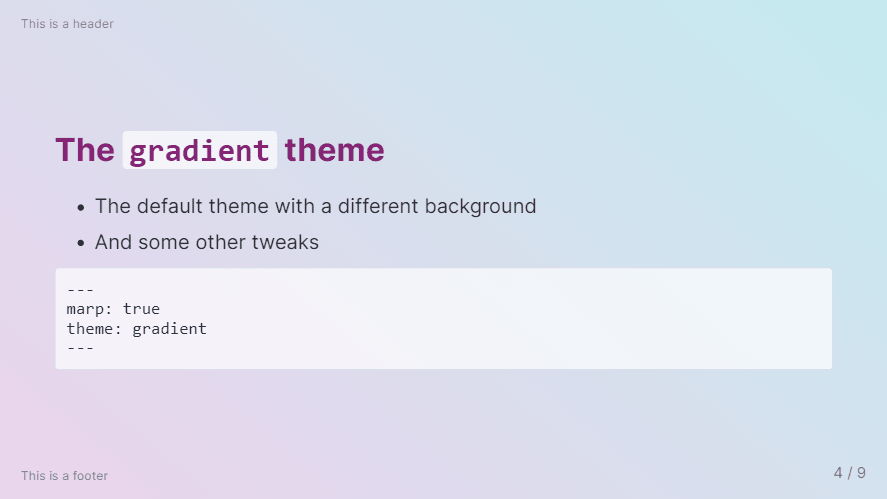
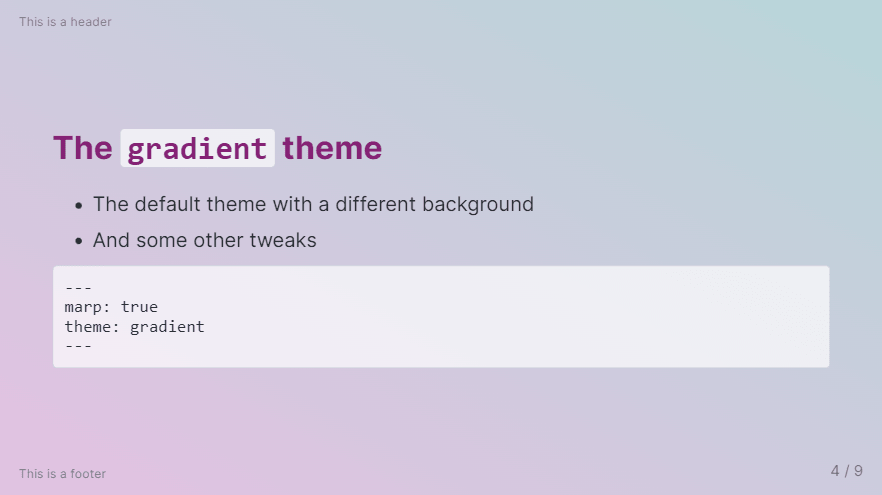
Increase vibrance

diff --git a/gradient.css b/gradient.css
@@ -11,7 +11,7 @@
 
 section {
   background-color: #ffffff;
-  background-image: linear-gradient(40deg, #e2bee2ad 0%, #a7e1e7ad 100%);
+  background-image: linear-gradient(to top right, #e1c2e1 5%, #b9d5d9 95%);
 }
 
 h1,
@@ -55,7 +55,7 @@ img[alt~="center"] {
 /* || SECTION CLASS: blue */
 section.blue {
   background-color: #ffffff;
-  background-image: linear-gradient(to bottom right, #cadaf7 0%, #87a7e4 100%);
+  background-image: linear-gradient(to bottom right, #cadaf7 5%, #87a7e4 95%);
 }
 
 section.blue>h1,
